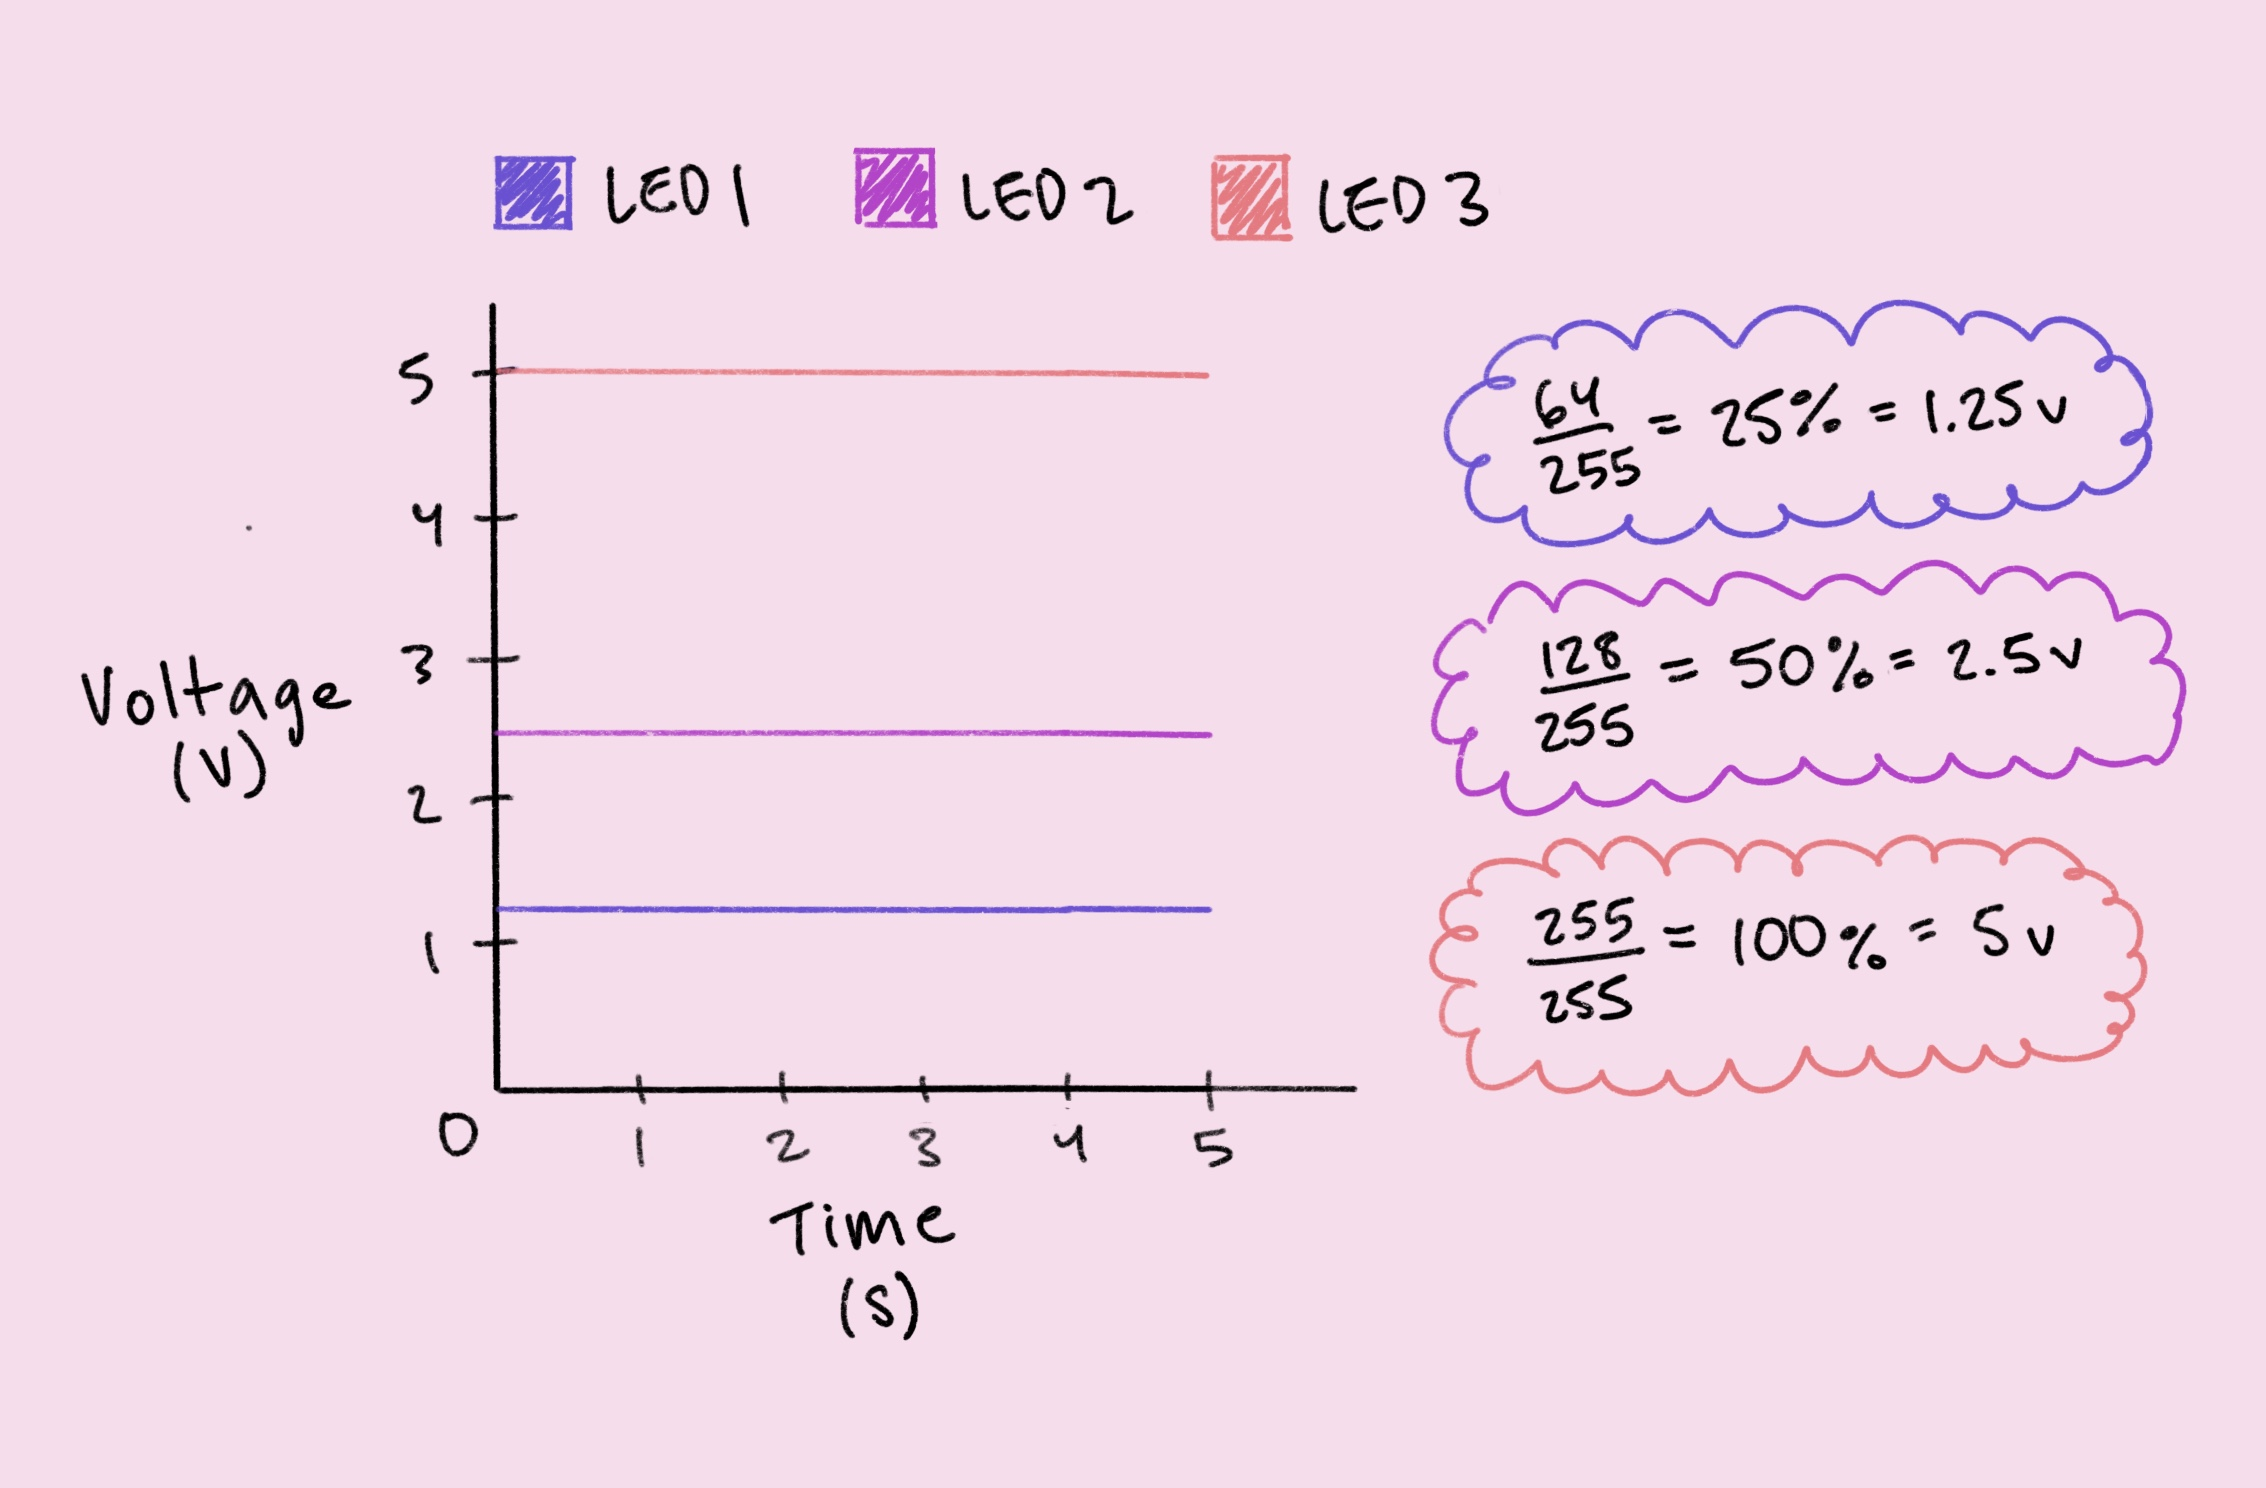
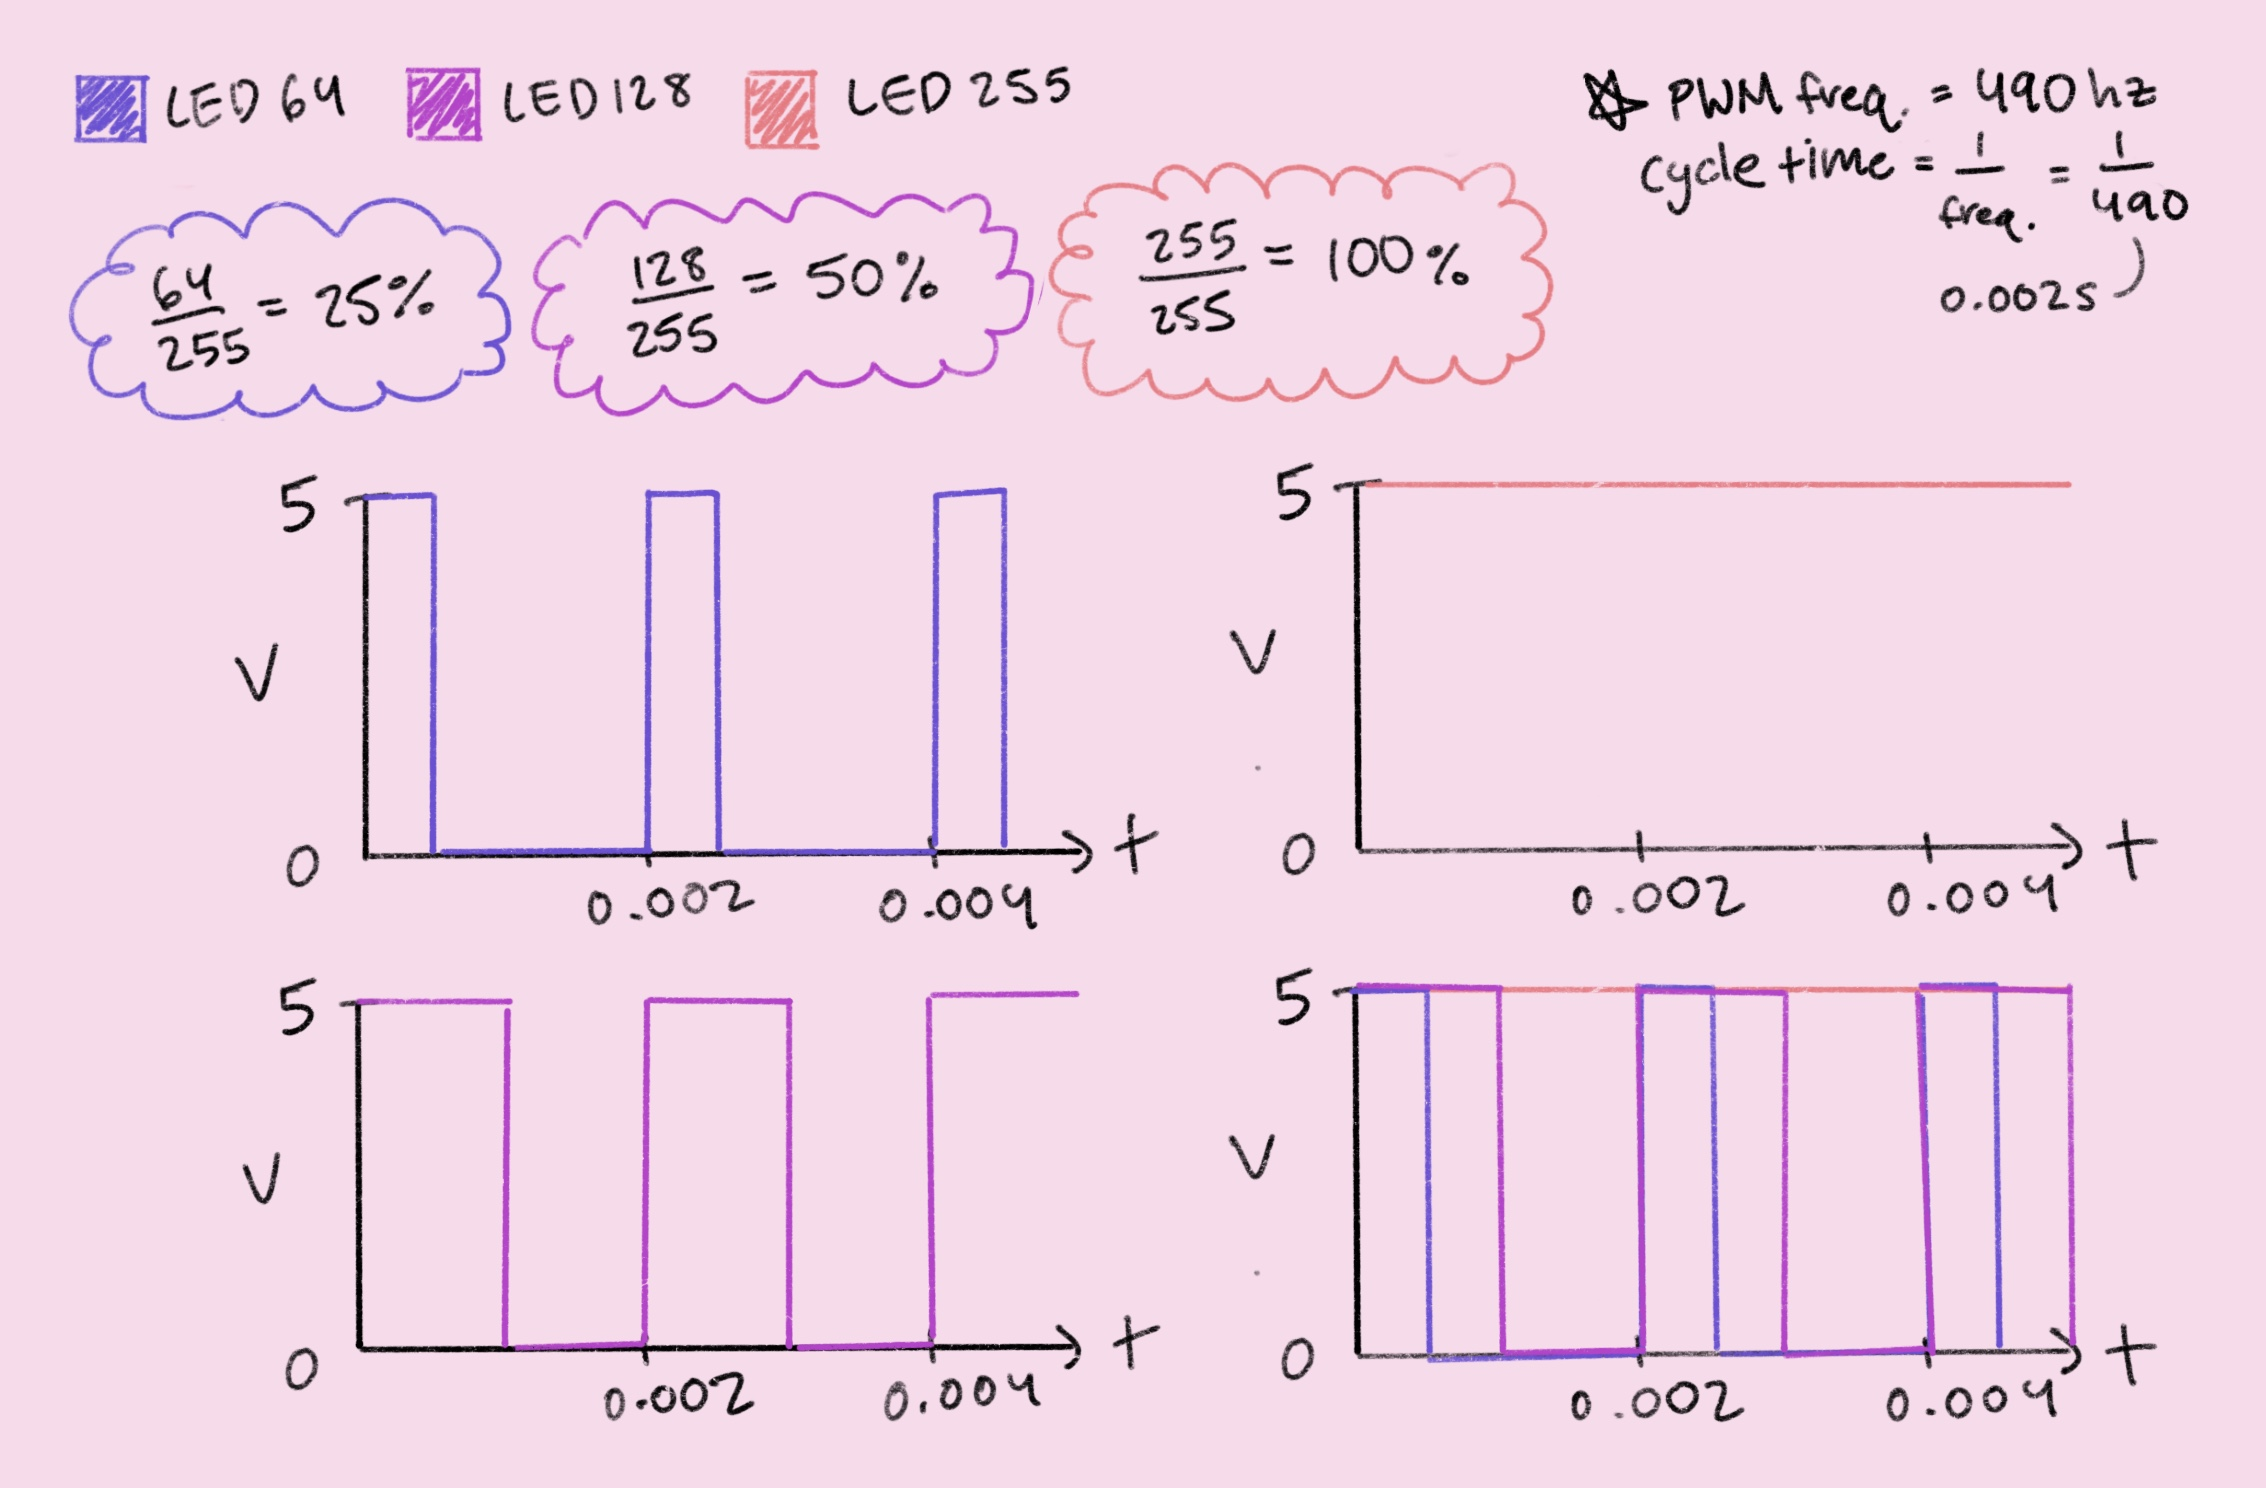
A2—Fixed additional Q1

diff --git a/a2.html b/a2.html
@@ -100,18 +100,17 @@
     <h2>Additional Questions</h2>
     <div class="questions">
       <p>
-        1. The analogWrite function takes two parameters: a pin and a duty cycle value that ranges
-        from 0 to 255. When set to 255, the Arduino provides 5V of power 100% of the time, resulting
-        in a constant voltage of ~5V across an LED. However, with a duty cycle of 128, the Arduino
-        supplies 5V of power only 50% of the time, causing the average voltage across an LED to drop
-        to ~2.5V. This same principle applies when the duty cycle is set to 64, where 5V of power is
-        supplied only 25% of the time, leading to an average voltage of ~1.25V across an LED. In
-        reality, average voltage across an LED may also be affected by its specific voltage drop.
+        1. The analogWrite function takes two parameters: a pin and a duty cycle value rangeing from
+        to 255. When set to 255, the Arduino provides 5V of power 100% of the time, resulting in a
+        constant voltage of approximately 5V across an LED. However, with a duty cycle of 128, the
+        Arduino supplies 5V of power only 50% of the time. Similarly, when the duty cycle is set to
+        64, the LED receives 5V of power only 25% of the time.
       </p>
-      <p>This graph depicts average voltage over time.</p>
+      <p>
+        These charts depict voltage over time (in seconds) across an LED for the cases listed above.
+        The official Arduino documentation gives 490hz as the frequency of PWM pins.
+      </p>
       <img src="A2-Q1.jpg" />
-      <p>This graph depicts voltage over two PWM cycles.</p>
-      <img src="A2-Q1-2.jpg" />
       <p>
         2. To answer this question, I started by calculating the current drawn by each LED. Each
         220Ω resistor/red LED pair draws 14.5mA, given 5V of power and a voltage drop of 1.8V. While
